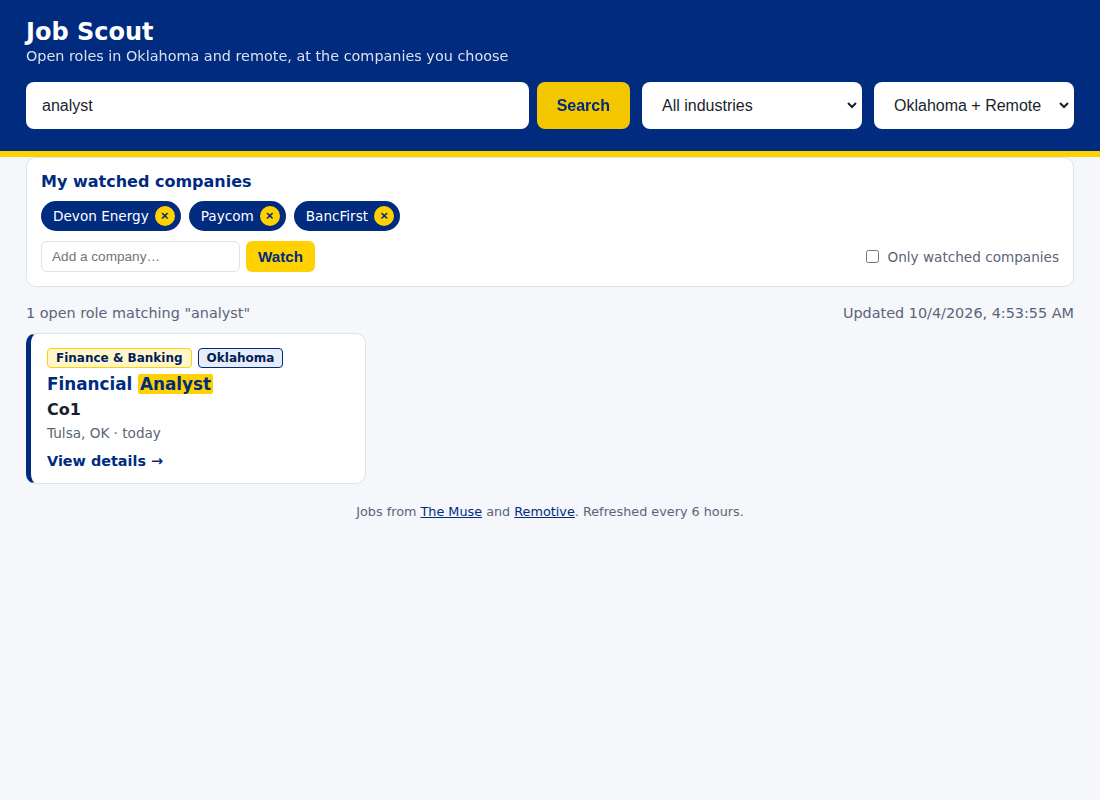
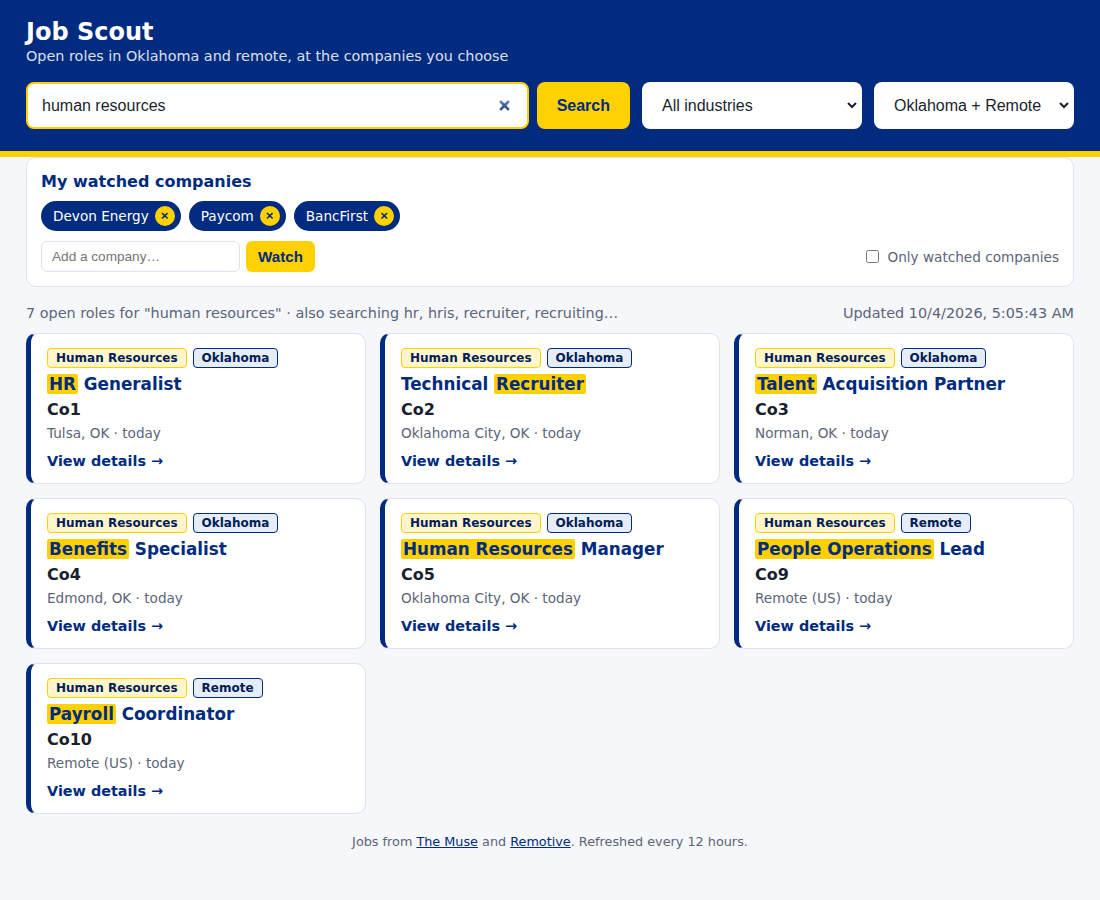
Broader search and more HR jobs
- Search matches each word independently with related terms
  (e.g. HR also finds recruiter, talent, benefits, people ops);
  title hits rank first, partial matches listed as close matches
- Fetch HR-specific feeds from The Muse and Remotive
- Add Human Resources industry
- Trim very long descriptions to stay under Vercel's response limit;
  cache 12 hours to respect Remotive's rate guidance

Claude-Session: https://claude.ai/code/session_01NNJ4n5GNgeSZ8YinLrcXCk

diff --git a/api/_lib/jobs.js b/api/_lib/jobs.js
@@ -11,13 +11,17 @@ const OK_CITIES = [
   "Owasso, OK", "Shawnee, OK", "Bartlesville, OK", "Muskogee, OK", "Ardmore, OK"
 ];
 const MUSE_REMOTE = "Flexible / Remote";
+// Fetched on its own so HR roles aren't crowded out by larger fields.
+const MUSE_HR_CATEGORY = "Human Resources and Recruitment";
+const REMOTIVE_HR_CATEGORY = "human-resources";
 
 // First match wins, so more specific industries come first.
 const INDUSTRY_RULES = [
   ["Aerospace & Defense", /aerospace|defen[cs]e|aviation|aircraft|air force|military|boeing|tinker|lockheed|northrop|raytheon/i],
   ["Healthcare", /health|nurs|medical|clinic|physician|pharm|therap|hospital|dental|patient|caregiver|integris|ssm/i],
   ["Energy", /energy|oil\b|natural gas|petroleum|utilit|electric|pipeline|power plant|solar|wind|devon|og&e|ong?ok|chesapeake|williams/i],
-  ["Finance & Banking", /financ|accounting|accountant|bank|credit|audit|\btax|loan|insurance|actuar|payroll|bookkeep/i],
+  ["Finance & Banking", /financ|accounting|accountant|bank|credit|audit|\btax|loan|insurance|actuar|bookkeep/i],
+  ["Human Resources", /human resources|\bhr\b|\bhris\b|recruit|talent|people (operations|ops|partner|team)|benefits|compensation|payroll|employee relations|onboarding specialist|workforce/i],
   ["Education", /educat|teach|school|universit|tutor|academ|instruct|curriculum/i],
   ["Government & Public Sector", /government|public sector|federal|state of|county|city of|municipal|usajobs/i],
   ["Nonprofit", /non-?profit|foundation|charity|ministry/i],
@@ -26,7 +30,7 @@ const INDUSTRY_RULES = [
   ["Technology", /software|engineer|developer|data|\bit\b|devops|sysadmin|\bqa\b|product|computer|cyber|cloud|design|ux|ui|tech|programm/i],
   ["Manufacturing & Logistics", /manufactur|warehouse|plant|production|assembly|logistic|supply chain|transport|mechanic|driver|machin/i],
   ["Retail & Hospitality", /retail|store|customer service|customer support|hospitality|food|restaurant|consumer|cashier/i],
-  ["Business & Professional Services", /sales|business|human resources|\bhr\b|recruit|project manag|operations|legal|admin|office|account manag|management/i]
+  ["Business & Professional Services", /sales|business|project manag|operations|legal|admin|office|account manag|management/i]
 ];
 
 const INDUSTRIES = INDUSTRY_RULES.map(([name]) => name).sort().concat("Other");
@@ -54,6 +58,15 @@ function sanitizeHtml(html) {
   return out + esc(cleaned.slice(last));
 }
 
+// Keep the payload well under Vercel's 4.5 MB response limit; the full text is on the employer's page.
+const MAX_DESCRIPTION = 8000;
+function trimDescription(html) {
+  if (html.length <= MAX_DESCRIPTION) return html;
+  const cut = Math.max(html.lastIndexOf("</p>", MAX_DESCRIPTION), html.lastIndexOf("</li>", MAX_DESCRIPTION));
+  const head = cut > 0 ? html.slice(0, html.indexOf(">", cut) + 1) : html.slice(0, MAX_DESCRIPTION);
+  return head + "<p><em>Description shortened. See the full posting on the employer's site.</em></p>";
+}
+
 const isOklahoma = loc => /,\s*OK\b|oklahoma/i.test(loc || "");
 // Remote roles that a candidate living in Oklahoma can take.
 const US_ELIGIBLE = /^\s*$|usa|united states|\bus\b|u\.s\.|north america|americas|worldwide|anywhere|global/i;
@@ -78,7 +91,7 @@ function fromMuse(job) {
     salary: "",
     posted: job.publication_date || null,
     url: job.refs?.landing_page || "",
-    description: sanitizeHtml(job.contents),
+    description: trimDescription(sanitizeHtml(job.contents)),
     source: "The Muse",
     sourceUrl: "https://www.themuse.com"
   };
@@ -101,7 +114,7 @@ function fromRemotive(job) {
     salary: job.salary || "",
     posted: job.publication_date || null,
     url: job.url || "",
-    description: sanitizeHtml(job.description),
+    description: trimDescription(sanitizeHtml(job.description)),
     source: "Remotive",
     sourceUrl: "https://remotive.com"
   };
@@ -113,36 +126,44 @@ async function getJson(fetchImpl, url) {
   return res.json();
 }
 
-function museUrl(locations, page) {
+function museUrl(locations, page, category) {
   const qs = new URLSearchParams({ page: String(page) });
   locations.forEach(l => qs.append("location", l));
+  if (category) qs.append("category", category);
   return `${MUSE_URL}?${qs}`;
 }
 
 // Fetch page 0, then every remaining page the feed reports (up to maxPages).
-async function fetchMusePages(fetchImpl, locations, maxPages) {
-  const first = await getJson(fetchImpl, museUrl(locations, 0));
+async function fetchMusePages(fetchImpl, locations, maxPages, category) {
+  const first = await getJson(fetchImpl, museUrl(locations, 0, category));
   const total = Math.min(first.page_count || 1, maxPages);
   const rest = await Promise.allSettled(
-    Array.from({ length: total - 1 }, (_, i) => getJson(fetchImpl, museUrl(locations, i + 1)))
+    Array.from({ length: total - 1 }, (_, i) => getJson(fetchImpl, museUrl(locations, i + 1, category)))
   );
   return [first, ...rest.filter(p => p.status === "fulfilled").map(p => p.value)]
     .flatMap(page => page.results || []);
 }
 
-async function fetchMuse(fetchImpl, { okPages = 15, remotePages = 3 } = {}) {
-  const [ok, remote] = await Promise.allSettled([
+async function fetchMuse(fetchImpl, { okPages = 15, remotePages = 3, hrPages = 5 } = {}) {
+  const results = await Promise.allSettled([
     fetchMusePages(fetchImpl, OK_CITIES, okPages),
-    fetchMusePages(fetchImpl, [MUSE_REMOTE], remotePages)
+    fetchMusePages(fetchImpl, [MUSE_REMOTE], remotePages),
+    fetchMusePages(fetchImpl, OK_CITIES, hrPages, MUSE_HR_CATEGORY),
+    fetchMusePages(fetchImpl, [MUSE_REMOTE], hrPages, MUSE_HR_CATEGORY)
   ]);
-  if (ok.status === "rejected" && remote.status === "rejected") throw ok.reason;
-  return [ok, remote].flatMap(r => (r.status === "fulfilled" ? r.value : []))
+  if (results.every(r => r.status === "rejected")) throw results[0].reason;
+  return results.flatMap(r => (r.status === "fulfilled" ? r.value : []))
     .map(fromMuse).filter(Boolean);
 }
 
 async function fetchRemotive(fetchImpl, { limit = 150 } = {}) {
-  const data = await getJson(fetchImpl, `${REMOTIVE_URL}?limit=${limit}`);
-  return (data.jobs || []).map(fromRemotive).filter(Boolean);
+  const results = await Promise.allSettled([
+    getJson(fetchImpl, `${REMOTIVE_URL}?limit=${limit}`),
+    getJson(fetchImpl, `${REMOTIVE_URL}?category=${REMOTIVE_HR_CATEGORY}`)
+  ]);
+  if (results.every(r => r.status === "rejected")) throw results[0].reason;
+  return results.flatMap(r => (r.status === "fulfilled" ? r.value.jobs || [] : []))
+    .map(fromRemotive).filter(Boolean);
 }
 
 async function collectJobs(fetchImpl = fetch) {
@@ -166,4 +187,4 @@ async function collectJobs(fetchImpl = fetch) {
   return { jobs, sources, industries: INDUSTRIES, updatedAt: new Date().toISOString() };
 }
 
-module.exports = { collectJobs, classifyIndustry, sanitizeHtml, fromMuse, fromRemotive, INDUSTRIES, OK_CITIES };
+module.exports = { collectJobs, classifyIndustry, sanitizeHtml, trimDescription, fromMuse, fromRemotive, INDUSTRIES, OK_CITIES };

diff --git a/web/index.html b/web/index.html
@@ -142,12 +142,12 @@
   </div>
 </dialog>
 
-<footer>Jobs from <a href="https://www.themuse.com" target="_blank" rel="noopener">The Muse</a> and <a href="https://remotive.com" target="_blank" rel="noopener">Remotive</a>. Refreshed every 6 hours.</footer>
+<footer>Jobs from <a href="https://www.themuse.com" target="_blank" rel="noopener">The Muse</a> and <a href="https://remotive.com" target="_blank" rel="noopener">Remotive</a>. Refreshed every 12 hours.</footer>
 
 <script>
   const FALLBACK_INDUSTRIES = [
     "Aerospace & Defense", "Business & Professional Services", "Consulting", "Education", "Energy",
-    "Finance & Banking", "Government & Public Sector", "Healthcare", "Manufacturing & Logistics",
+    "Finance & Banking", "Government & Public Sector", "Healthcare", "Human Resources", "Manufacturing & Logistics",
     "Media & Entertainment", "Nonprofit", "Retail & Hospitality", "Technology", "Other"
   ];
 
@@ -181,10 +181,40 @@
   const isWatched = co => watched.some(w => w.toLowerCase() === co.toLowerCase());
 
   const esc = s => String(s ?? "").replace(/[&<>"']/g, c => ({ "&": "&amp;", "<": "&lt;", ">": "&gt;", '"': "&quot;", "'": "&#39;" }[c]));
-  const hl = (text, term) => {
+  // Searching any word in a group also finds the others (e.g. "HR" finds recruiter and talent roles).
+  const SYNONYMS = [
+    ["human resources", "hr", "hris", "recruiter", "recruiting", "recruitment", "talent", "people operations",
+     "people ops", "people partner", "benefits", "compensation", "payroll", "employee relations", "onboarding", "workforce"],
+    ["finance", "financial", "accounting", "accountant", "controller", "treasury", "bookkeeper", "fp&a"],
+    ["software", "developer", "programmer", "full stack", "frontend", "backend", "software engineer"],
+    ["nurse", "nursing", "rn", "lpn", "registered nurse"],
+    ["marketing", "brand", "seo", "social media", "content", "communications"],
+    ["sales", "account executive", "business development", "account manager"]
+  ];
+  const reEsc = s => s.replace(/[.*+?^${}()|[\]\\]/g, "\\$&");
+  // Short words (hr, rn) must match whole words so "hr" doesn't hit "three".
+  const wordRe = w => new RegExp((/^\w/.test(w) ? "\\b" : "") + reEsc(w) + (w.length <= 3 && /\w$/.test(w) ? "\\b" : ""), "i");
+
+  // Turn the search text into terms; each term is satisfied by any of its related words.
+  function parseSearch(text) {
+    let rest = " " + text.toLowerCase().replace(/\s+/g, " ") + " ";
+    const phrases = SYNONYMS.flat().filter(w => w.includes(" ")).sort((a, b) => b.length - a.length);
+    const words = [];
+    for (const p of phrases) if (rest.includes(" " + p + " ")) { words.push(p); rest = rest.replace(" " + p + " ", " "); }
+    words.push(...rest.trim().split(" ").filter(Boolean));
+    return words.map(w => {
+      const group = SYNONYMS.find(g => g.some(m => m === w || (w.length >= 4 && m.startsWith(w))));
+      const alts = group ? [...new Set([w, ...group])] : [w];
+      return { word: w, related: !!group, alts, res: alts.map(wordRe) };
+    });
+  }
+  let terms = [];
+
+  const hl = text => {
     const safe = esc(text);
-    if (!term) return safe;
-    const re = new RegExp("(" + esc(term).replace(/[.*+?^${}()|[\]\\]/g, "\\$&") + ")", "ig");
+    if (!terms.length) return safe;
+    const alts = terms.flatMap(t => t.alts).sort((a, b) => b.length - a.length);
+    const re = new RegExp("\\b(" + alts.map(a => reEsc(esc(a))).join("|") + ")", "ig");
     return safe.replace(re, "<mark>$1</mark>");
   };
   const ago = iso => {
@@ -206,24 +236,44 @@
   }
 
   let visible = [];
+  // Score a job against the search. Each word counts on its own, in any order; title hits rank highest.
+  // Related-word groups only match the job's title, company, industry and category, because
+  // descriptions often mention HR or benefits in passing.
+  function score(j) {
+    let hits = 0, points = 0;
+    for (const t of terms) {
+      const p = t.res.some(r => r.test(j.title)) ? 3
+        : t.res.some(r => r.test(j._fields)) ? 2
+        : !t.related && t.res.some(r => r.test(j._text)) ? 1 : 0;
+      if (p) { hits++; points += p; }
+    }
+    return { all: hits === terms.length, rank: hits * 10 + points, hits };
+  }
+
   function render() {
-    const t = term.toLowerCase();
+    terms = term ? parseSearch(term) : [];
     visible = JOBS.filter(j =>
       (!sel.value || j.industry === sel.value) &&
       (!where.value || (where.value === "ok" ? j.oklahoma : j.remote)) &&
-      (!only.checked || isWatched(j.company)) &&
-      (!t || [j.title, j.company, j.location, j.industry, j.category].some(f => (f || "").toLowerCase().includes(t)) || j._text.includes(t))
-    );
+      (!only.checked || isWatched(j.company))
+    ).map(j => [j, terms.length ? score(j) : { all: true, rank: 1, hits: 1 }])
+      // Jobs matching every word come first; jobs matching some of the words follow as close matches.
+      .filter(([, s]) => s.hits > 0).sort((a, b) => b[1].rank - a[1].rank);
+    const full = visible.filter(([, s]) => s.all).length, close = visible.length - full;
+    visible = visible.map(([j]) => j);
 
+    const extra = terms.filter(t => t.related).flatMap(t => t.alts.filter(a => a !== t.word)).slice(0, 4);
     $("count").textContent = `${visible.length} open role${visible.length === 1 ? "" : "s"}` +
-      (sel.value ? ` in ${sel.value}` : "") + (term ? ` matching "${term}"` : "");
+      (sel.value ? ` in ${sel.value}` : "") + (term ? ` for "${term}"` : "") +
+      (term && close ? ` (${full} best match${full === 1 ? "" : "es"}, ${close} close)` : "") +
+      (extra.length ? ` · also searching ${extra.join(", ")}…` : "");
 
     $("results").innerHTML = visible.length ? visible.map((j, i) => `
       <button class="job" type="button" data-i="${i}">
         <span class="tags"><span class="tag">${esc(j.industry)}</span>${j.remote ? '<span class="tag blue">Remote</span>' : ""}${j.oklahoma ? '<span class="tag blue">Oklahoma</span>' : ""}</span>
-        <h3>${hl(j.title, term)}</h3>
-        <span class="co">${hl(j.company, term)}</span>
-        <span class="meta">${hl(j.location, term)}${j.posted ? " · " + ago(j.posted) : ""}</span>
+        <h3>${hl(j.title)}</h3>
+        <span class="co">${hl(j.company)}</span>
+        <span class="meta">${hl(j.location)}${j.posted ? " · " + ago(j.posted) : ""}</span>
         <span class="more">View details →</span>
       </button>`).join("")
       : `<div class="empty">No jobs found. Try a different search, industry, or location.</div>`;
@@ -279,7 +329,7 @@
   [sel, where, only].forEach(el => el.addEventListener("input", render));
 
   function load(jobs) {
-    JOBS = jobs.map(j => ({ ...j, _text: textOf(j.description).toLowerCase() }));
+    JOBS = jobs.map(j => ({ ...j, _text: textOf(j.description), _fields: [j.company, j.location, j.industry, j.category].join(" | ") }));
     render();
   }
 

diff --git a/tests/jobs.test.js b/tests/jobs.test.js
@@ -71,7 +71,38 @@ test("fetchMuse follows page_count but stops at the page cap", async () => {
     return { ok: true, json: async () => ({ page_count: remote ? 1 : 40, results: [{ id: `${remote}-${page}`, name: `Job ${remote}-${page}`, company: { name: "Co" }, locations: [{ name: remote ? "Flexible / Remote" : "Tulsa, OK" }], categories: [], levels: [], contents: "", refs: {} }] }) };
   };
   const data = await collectJobs(fakeFetch);
-  assert.strictEqual(calls.filter(u => u.includes("themuse") && !u.includes("Flexible")).length, 15);
-  assert.strictEqual(calls.filter(u => u.includes("Flexible")).length, 1);
-  assert.strictEqual(data.jobs.filter(j => j.oklahoma).length, 15);
+  const general = calls.filter(u => u.includes("themuse") && !u.includes("category="));
+  assert.strictEqual(general.filter(u => !u.includes("Flexible")).length, 15);
+  assert.strictEqual(general.filter(u => u.includes("Flexible")).length, 1);
+  assert.ok(data.jobs.filter(j => j.oklahoma).length >= 15);
+});
+
+test("HR roles get their own industry", () => {
+  assert.strictEqual(classifyIndustry("Human Resources and Recruitment", "HR Generalist"), "Human Resources");
+  assert.strictEqual(classifyIndustry("", "Technical Recruiter", "Acme Software"), "Human Resources");
+  assert.strictEqual(classifyIndustry("", "People Operations Partner"), "Human Resources");
+  assert.strictEqual(classifyIndustry("", "Three-Shift Supervisor"), "Other"); // "hr" must be a whole word
+});
+
+test("collectJobs also requests HR-specific feeds", async () => {
+  const calls = [];
+  const fakeFetch = async url => {
+    calls.push(url);
+    if (url.includes("remotive")) return { ok: true, json: async () => ({ jobs: url.includes("human-resources") ? [{ id: 7, title: "HR Business Partner", company_name: "Remote Co", category: "Human Resources", candidate_required_location: "USA" }] : [] }) };
+    const hr = url.includes("category=Human+Resources");
+    return { ok: true, json: async () => ({ page_count: 1, results: hr ? [{ id: 9, name: "Recruiter", company: { name: "Tulsa Co" }, locations: [{ name: "Tulsa, OK" }], categories: [{ name: "Human Resources and Recruitment" }], levels: [], contents: "", refs: {} }] : [] }) };
+  };
+  const data = await collectJobs(fakeFetch);
+  assert.strictEqual(calls.filter(u => u.includes("category=Human+Resources")).length, 2);
+  assert.ok(calls.some(u => u.includes("remotive") && u.includes("category=human-resources")));
+  assert.deepStrictEqual(data.jobs.map(j => j.industry).sort(), ["Human Resources", "Human Resources"]);
+});
+
+test("trimDescription keeps long descriptions under the cap at a tag boundary", () => {
+  const { trimDescription } = require("../api/_lib/jobs");
+  const long = "<p>" + "word ".repeat(1000) + "</p>".repeat(1) + ("<p>" + "x".repeat(500) + "</p>").repeat(20);
+  const out = trimDescription(long);
+  assert.ok(out.length < 9000);
+  assert.match(out, /Description shortened/);
+  assert.strictEqual(trimDescription("<p>short</p>"), "<p>short</p>");
 });

diff --git a/api/jobs.js b/api/jobs.js
@@ -2,14 +2,14 @@ const { collectJobs } = require("./_lib/jobs");
 const { getApiKey } = require("./_lib/config");
 
 // GET /api/jobs: Oklahoma-based and remote (US-eligible) jobs from public feeds.
-// Cached at Vercel's edge for 6 hours to respect the feeds' rate limits.
+// Cached at Vercel's edge for 12 hours to respect the feeds' rate limits.
 module.exports = async (req, res) => {
   try {
     const data = await collectJobs();
     // Report only whether the key is present and which variable it came from, never the value.
     const key = getApiKey();
     data.apiKey = key ? { configured: true, variable: key.name } : { configured: false };
-    res.setHeader("Cache-Control", "public, s-maxage=21600, stale-while-revalidate=3600");
+    res.setHeader("Cache-Control", "public, s-maxage=43200, stale-while-revalidate=3600");
     res.status(200).json(data);
   } catch (err) {
     res.status(502).json({ error: "Could not load jobs", detail: String(err.message || err) });

diff --git a/docs/ARCHITECTURE.md b/docs/ARCHITECTURE.md
@@ -51,11 +51,14 @@ flowchart LR
   gold is blue, never white (contrast).
 - **Search bar:** free text across title, company, location and description.
   Results filter as the user types.
-- **Industry dropdown:** Technology, Finance & Banking, Healthcare, Energy,
+- **Industry dropdown:** Technology, Finance & Banking, Healthcare, Human Resources, Energy,
   Education, Government & Public Sector, Manufacturing, Retail & Consumer,
   Consulting, Nonprofit, Aerospace & Defense, Media & Entertainment.
 - Secondary filters: location / remote, posted-within, "only my watched companies".
 - **Watchlist panel:** add or remove companies.
+- **Smart search:** each word matches on its own, in any order, with related terms (e.g. "HR" also
+  finds recruiter, talent, benefits and people-operations roles). Title matches rank first; jobs
+  matching only some words appear below as close matches.
 - **Location filter:** Oklahoma + Remote (default), Oklahoma only, Remote only.
 - **Job details:** clicking a job opens a panel with location, work style, industry, type,
   level, salary (when posted), full description, "Apply on employer site" and "Watch company".
